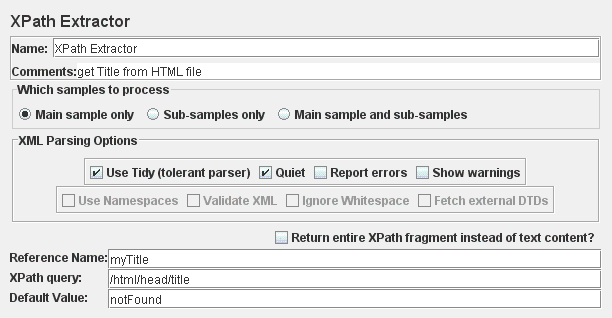
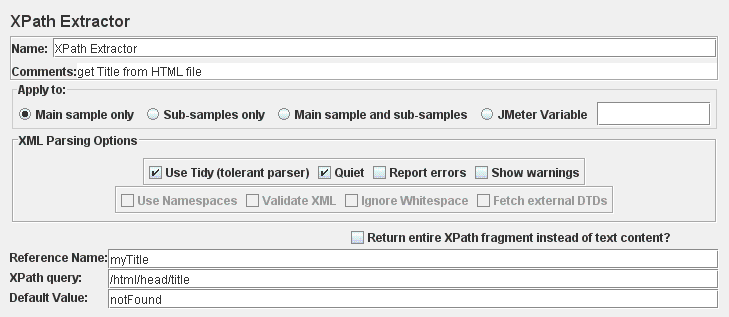
Bug 51885 - Allow a JMeter Variable as input to XPathExtractor
git-svn-id: https://svn.apache.org/repos/asf/jakarta/jmeter/trunk@1174835 13f79535-47bb-0310-9956-ffa450edef68

diff --git a/src/components/org/apache/jmeter/extractor/gui/XPathExtractorGui.java b/src/components/org/apache/jmeter/extractor/gui/XPathExtractorGui.java
@@ -72,7 +72,7 @@ public class XPathExtractorGui extends AbstractPostProcessorGui {
     public void configure(TestElement el) {
         super.configure(el);
         XPathExtractor xpe = (XPathExtractor) el;
-        showScopeSettings(xpe);
+        showScopeSettings(xpe,true);
         xpathQueryField.setText(xpe.getXPathQuery());
         defaultField.setText(xpe.getDefaultValue());
         refNameField.setText(xpe.getRefName());
@@ -119,7 +119,7 @@ public class XPathExtractorGui extends AbstractPostProcessorGui {
 
         Box box = Box.createVerticalBox();
         box.add(makeTitlePanel());
-        box.add(createScopePanel());
+        box.add(createScopePanel(true));
         xml.setBorder(BorderFactory.createTitledBorder(BorderFactory.createEtchedBorder(), JMeterUtils
                 .getResString("xpath_assertion_option"))); //$NON-NLS-1$
         box.add(xml);
